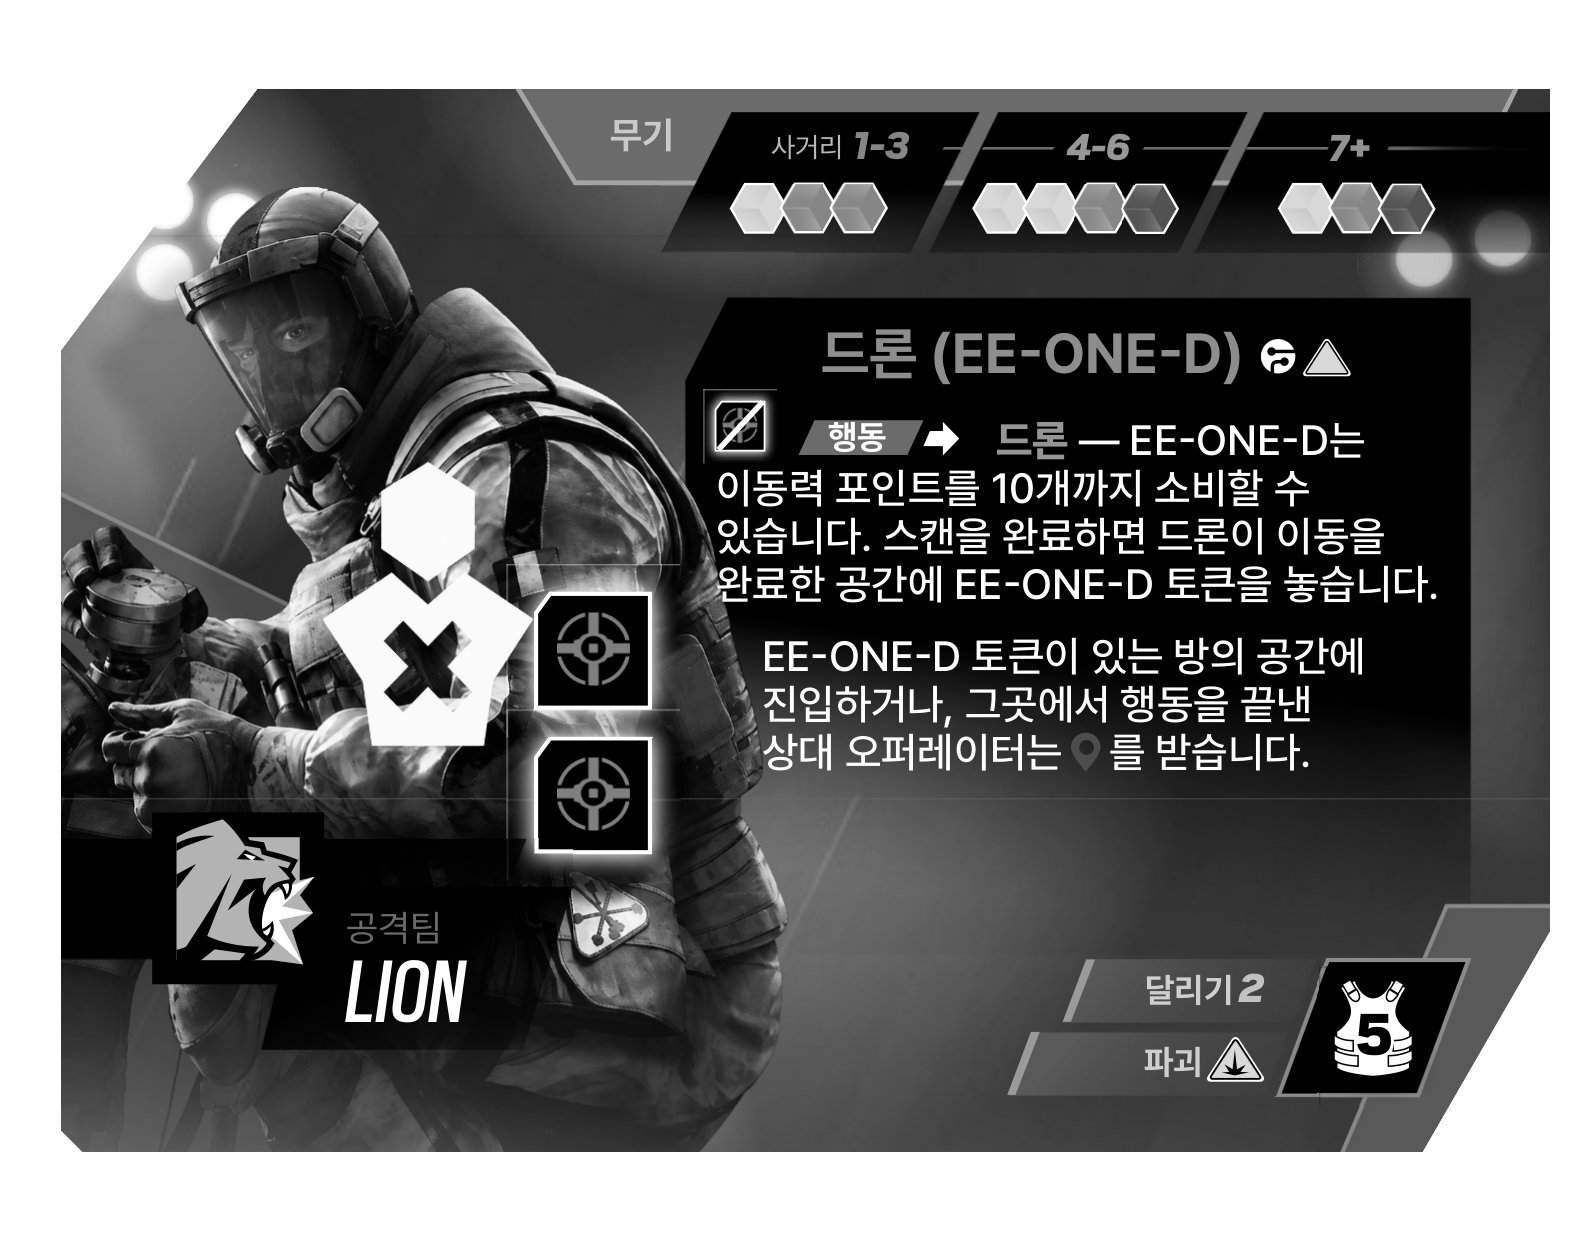
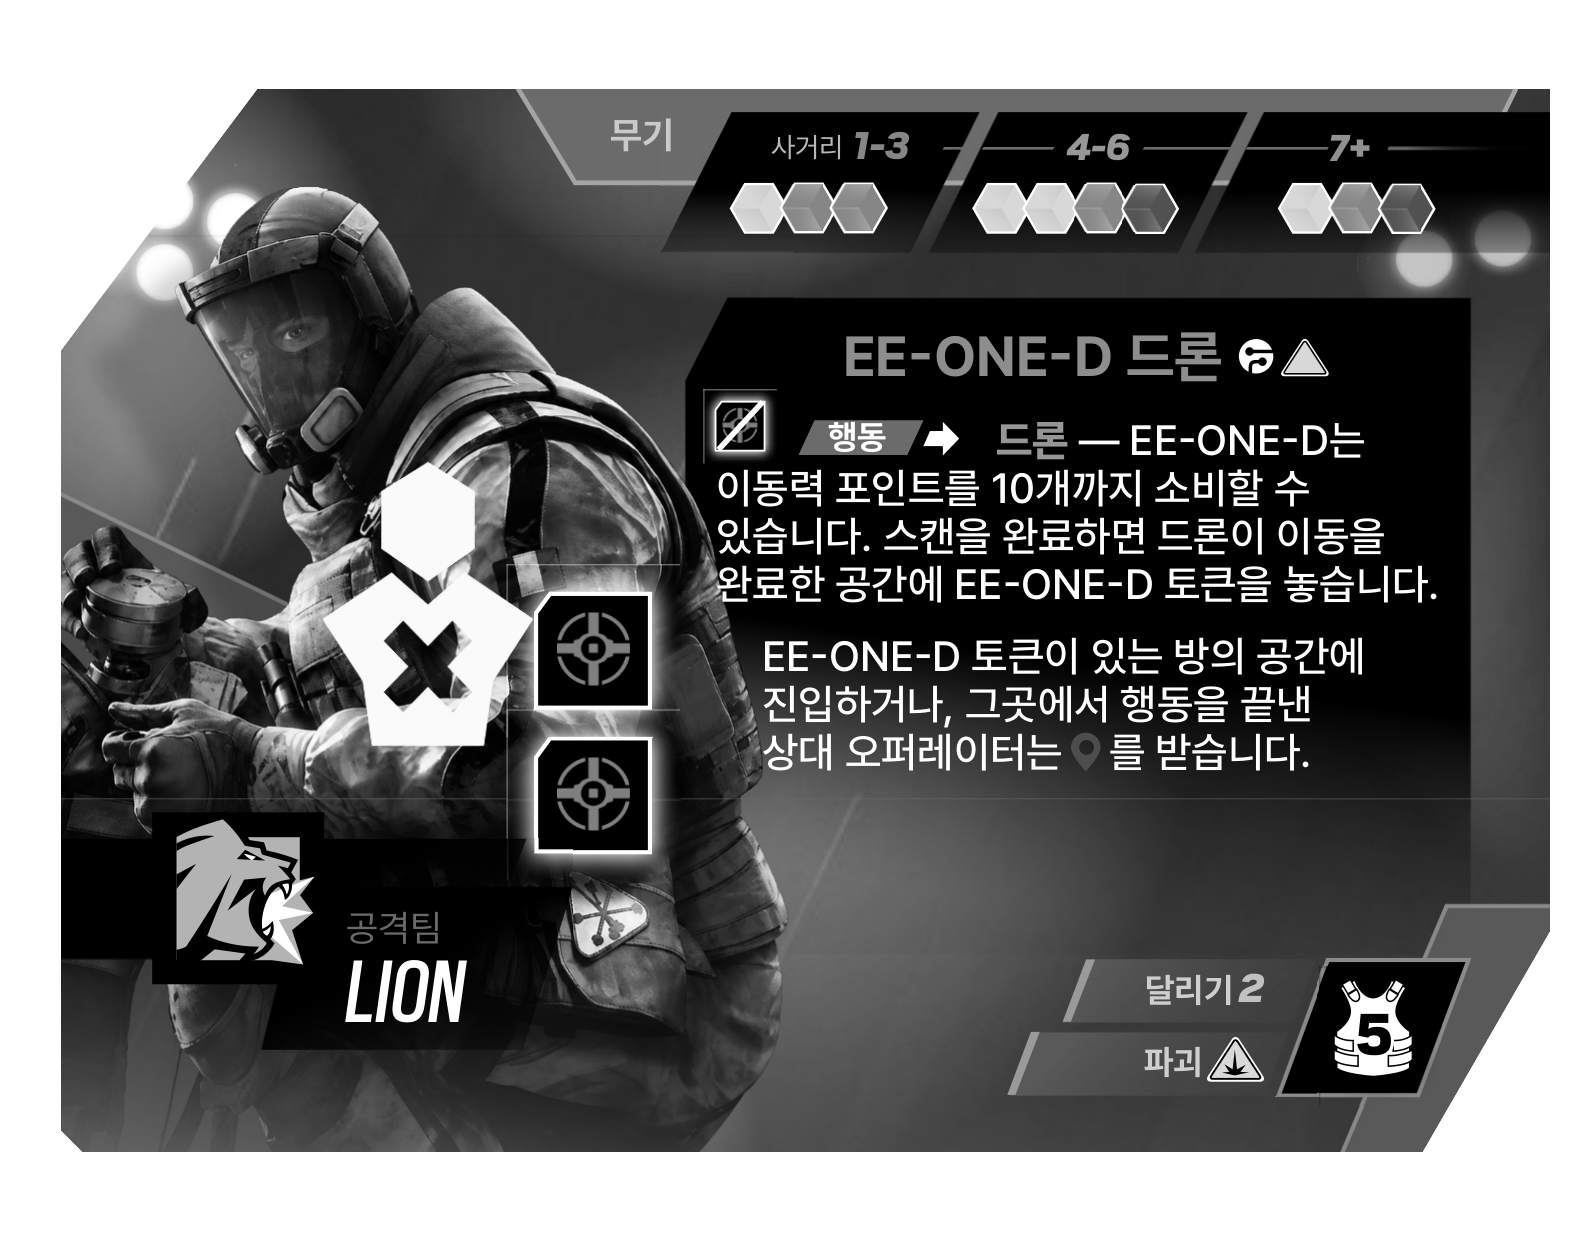
LION: title EE-ONE-D 드론
Claude-Session: https://claude.ai/code/session_01PWfnpsEVz5A5HNsqMNiVFq

Changed region(s): [[0.5239, 0.246, 0.8629, 0.3074]]

diff --git a/tools/year3/batch1.py b/tools/year3/batch1.py
@@ -18,5 +18,5 @@ run_card('fk', 'finka', '아드레날린 분출', [dict(runs=p1, x_first=981, x_
 pin = ic('ln/icon_pin.png')
 p1 = [('t', '드론', B, BL), ('t', ' — EE-ONE-D는 이동력 포인트를 10개까지 소비할 수 있습니다. 스캔을 완료하면 드론이 이동을 완료한 공간에 EE-ONE-D' + N + '토큰을 놓습니다.', M, WH)]
 p2 = [('t', 'EE-ONE-D 토큰이 있는 방의 공간에 진입하거나, 그곳에서 행동을 끝낸 상대' + N + '오퍼레이터는', M, WH), ('i', pin), ('t', '를' + N + '받습니다.', M, WH)]
-run_card('ln', 'lion', '드론 (EE-ONE-D)', [dict(runs=p1, x_first=996, x_rest=716, cy=440.5), dict(runs=p2, x_first=762, x_rest=762, cy=None, fixed_cy=False)], 812,
+run_card('ln', 'lion', 'EE-ONE-D 드론', [dict(runs=p1, x_first=996, x_rest=716, cy=440.5), dict(runs=p2, x_first=762, x_rest=762, cy=None, fixed_cy=False)], 812,
          title_icon=ic('ln/icon_title.png'), label_override={'ACTION': [811, 420, 903, 454]})
